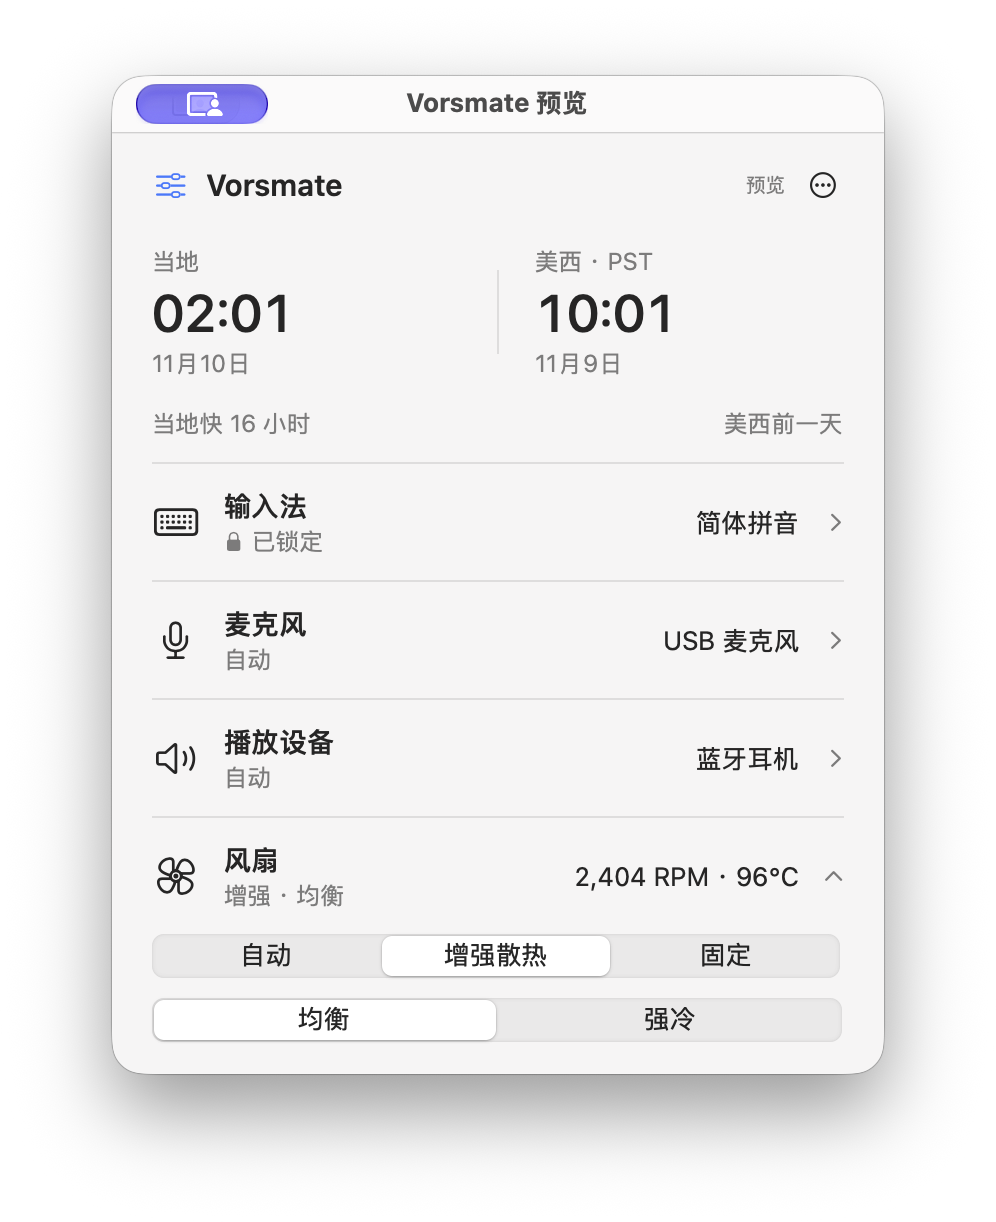
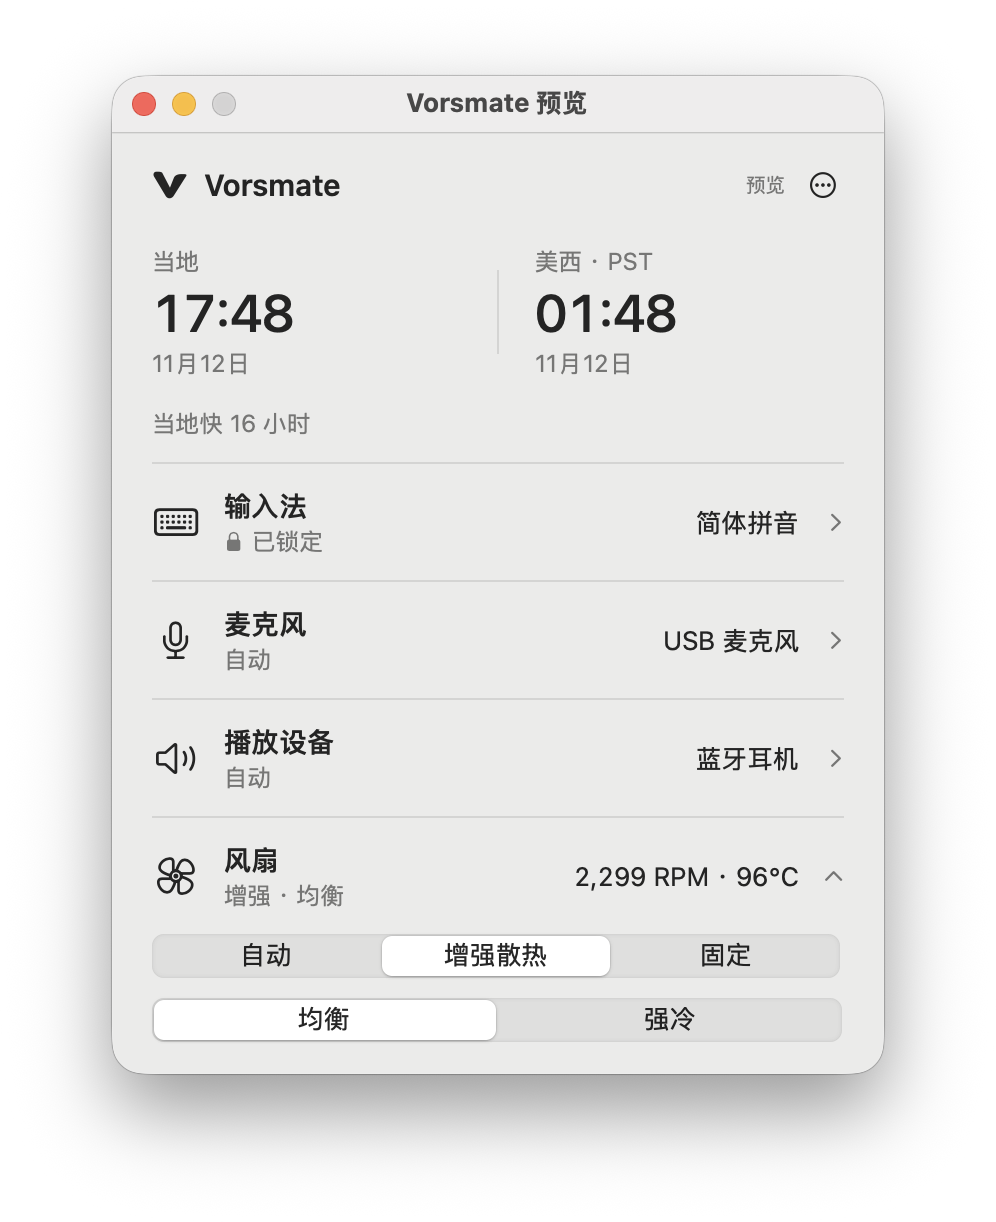
chore(release): prepare 0.1.1 with refreshed screenshots

diff --git a/README.en.md b/README.en.md
@@ -26,9 +26,9 @@ Built with SwiftUI and AppKit, with native Liquid Glass on macOS 26+. No account
 
 Requires **macOS 14 or later**. The universal app includes Apple Silicon and Intel architectures.
 
-1. Download `Vorsmate-0.1.0-universal.dmg` from [GitHub Releases](https://github.com/0xTotoroX/vorsmate/releases).
+1. Download `Vorsmate-0.1.1-universal.dmg` from [GitHub Releases](https://github.com/0xTotoroX/vorsmate/releases).
 2. Open the disk image and drag **Vorsmate** into **Applications**.
-3. Launch it from Applications and click the sliders icon in the menu bar.
+3. Launch it from Applications and click the **V** icon in the menu bar.
 
 **Signed with an Apple development certificate and not notarized.** If macOS blocks the first launch, verify the download source, then use **System Settings → Privacy & Security → Open Anyway**. See [Apple’s instructions](https://support.apple.com/en-us/102445). Do not disable Gatekeeper or System Integrity Protection.
 
@@ -39,6 +39,8 @@ Fan control requires enabling the helper in the app and completing macOS authori
 Click a feature row to expand its controls. The panel otherwise shows only the current state.
 
 Input sources and audio channels each offer **Off**, **Automatic**, and **Locked** modes. Clicking a device selects and locks it. Use the priority controls to reorder preferences. Management is off on first launch; enable it where needed. Audio apps with their own device selection should use the system default. Input source locking does not control an input method’s internal language mode.
+
+After a temporary switching failure, Vorsmate waits and rechecks automatically. Your lock or priority rules resume once the state recovers; a warning appears only if the problem persists.
 
 Fans default to system control. Enhanced cooling responds to sustained heat, slows gradually as temperatures drop, and returns control to macOS. Fixed mode maintains a chosen speed. Manual fan modes are not restored after restarting the app.
 

diff --git a/README.md b/README.md
@@ -26,9 +26,9 @@
 
 需要 **macOS 14 或更新版本**。安装包包含 Apple Silicon 与 Intel 两种架构；应用界面目前为简体中文。
 
-1. 在 [GitHub Releases](https://github.com/0xTotoroX/vorsmate/releases) 下载 `Vorsmate-0.1.0-universal.dmg`。
+1. 在 [GitHub Releases](https://github.com/0xTotoroX/vorsmate/releases) 下载 `Vorsmate-0.1.1-universal.dmg`。
 2. 打开磁盘镜像，将 **Vorsmate** 拖入 **Applications**。
-3. 从“应用程序”中启动，点击菜单栏的滑杆图标。
+3. 从“应用程序”中启动，点击菜单栏的 **V** 图标。
 
 **使用 Apple 开发签名，尚未公证。** 若首次启动被 macOS 阻止，核对下载来源后，在“系统设置 → 隐私与安全性 → 仍要打开”确认。[Apple 的说明](https://support.apple.com/zh-cn/102445)。无需关闭 Gatekeeper 或系统完整性保护。
 
@@ -39,6 +39,8 @@
 点功能行展开操作，再次点击即可收起；平时只显示当前状态。
 
 输入法和音频各自有三种模式：**关闭**停止管理，**自动**按优先级选择，**锁定**保持指定项目。点击设备即切换并锁定；在“调整优先级”中排序。首次启动默认关闭，按需开启。音频应用如单独指定了设备，需在该应用中选择“系统默认”。输入法锁定针对系统输入源，不改变输入法内部的中英文状态。
+
+短暂切换异常时会先冷却、自动复查，恢复正常后继续原锁定或优先级；只有异常持续才显示提示。
 
 风扇默认由系统管理。选择增强散热后，持续升温才加速，降温后缓慢回落并交还系统；固定模式保持指定转速。手动风扇模式不跨应用重启保存。
 
